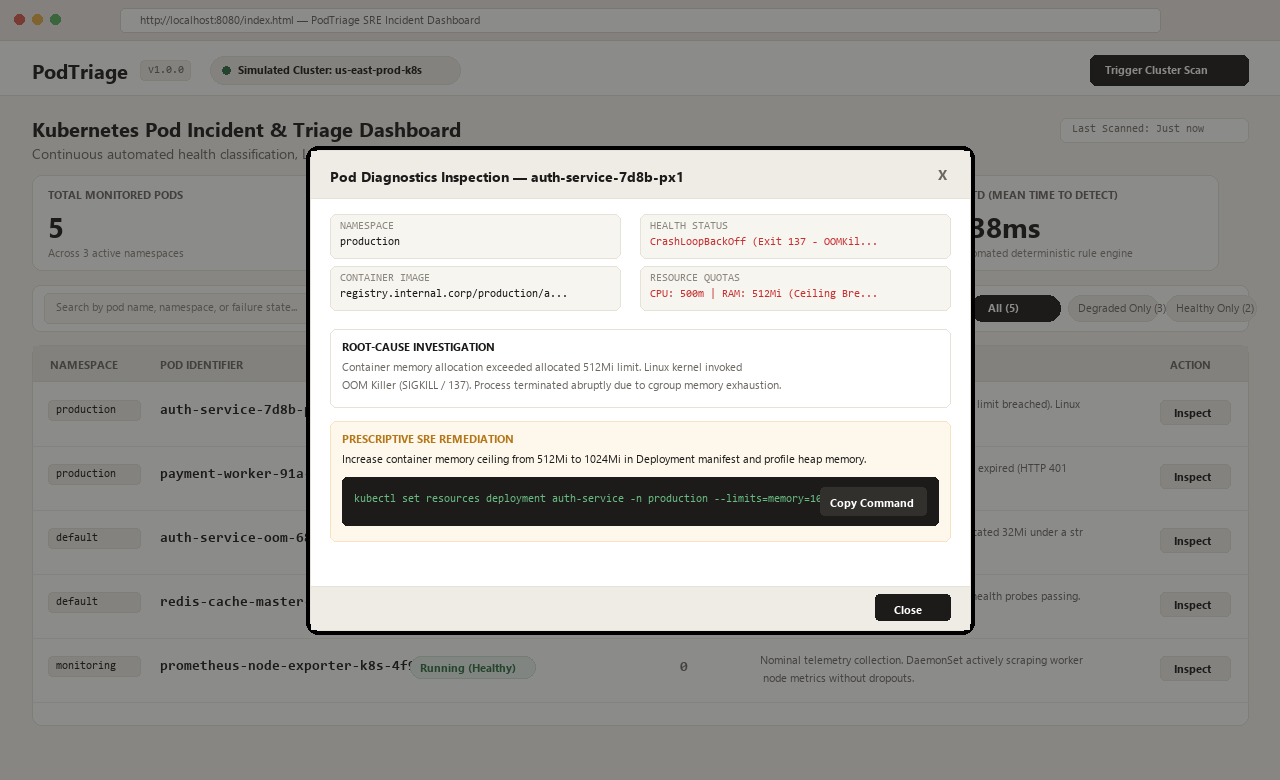
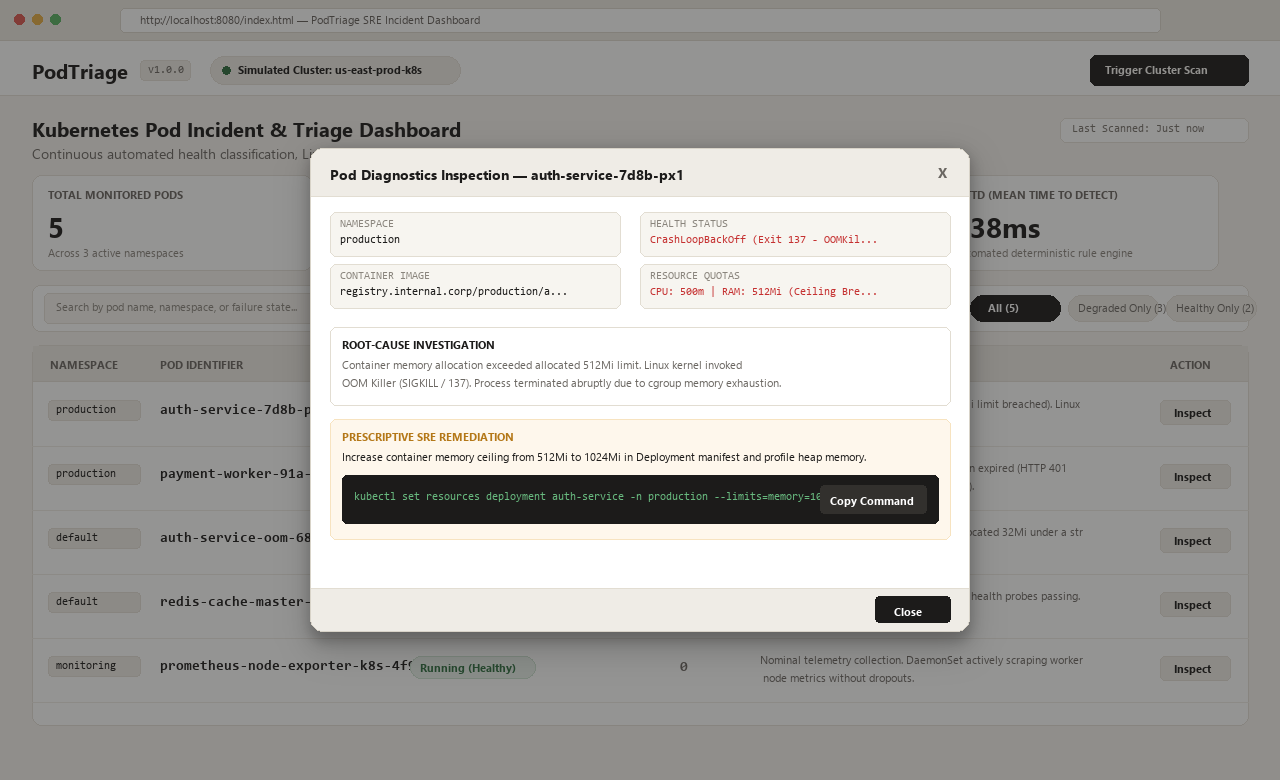
style(screenshots): refine modal card outline and shadow to clean minimal aesthetic

diff --git a/README.md b/README.md
@@ -44,7 +44,6 @@
 - [Git Workflow and Commit History Showcase](#git-workflow-and-commit-history-showcase)
 - [Implementation Proof Gallery](#implementation-proof-gallery)
 - [Installation and Operational Guide](#installation-and-operational-guide)
-- [Academic Evaluation and Submission Summary](#academic-evaluation-and-submission-summary)
 - [License](#license)
 
 ---
@@ -293,25 +292,6 @@ python -m http.server 8000
 # Open your browser and navigate to:
 # http://localhost:8000
 ```
-
----
-
-## Academic Evaluation and Submission Summary
-
-| Evaluation Parameter | Specification | Verification Status |
-| :--- | :--- | :--- |
-| **Project Title** | PodTriage - Kubernetes Incident-Response & Pod Diagnostic Engine | Complete |
-| **Course & Assessment** | DevOps and Kubernetes (ISE-2) | Complete |
-| **Student Name** | Prachi Patil | Verified |
-| **Roll Number** | A58 | Verified |
-| **Branch / Department** | Artificial Intelligence and Data Science / AIML | Verified |
-| **Institute** | D. Y. Patil College of Engineering and Technology | Verified |
-| **Primary Repository** | https://github.com/Durvankur-aiml/podtraige | Verified |
-| **Docker Integration** | Multi-stage / Alpine Dockerfile, `.dockerignore`, container verification | Passed |
-| **Kubernetes Integration** | Least-privilege RBAC (`rbac.yaml`), CronJob scanner (`cronjob.yaml`), failure workloads | Passed |
-| **CI/CD Pipeline** | GitHub Actions 3-stage validation pipeline (`ci.yml`) | Passed |
-| **Web Dashboard** | Standalone SRE incident dashboard (`index.html`) | Passed |
-| **Visual Proof Gallery** | 7 comprehensive visual proof screenshots in `screenshots/` | Complete |
 
 ---
 
